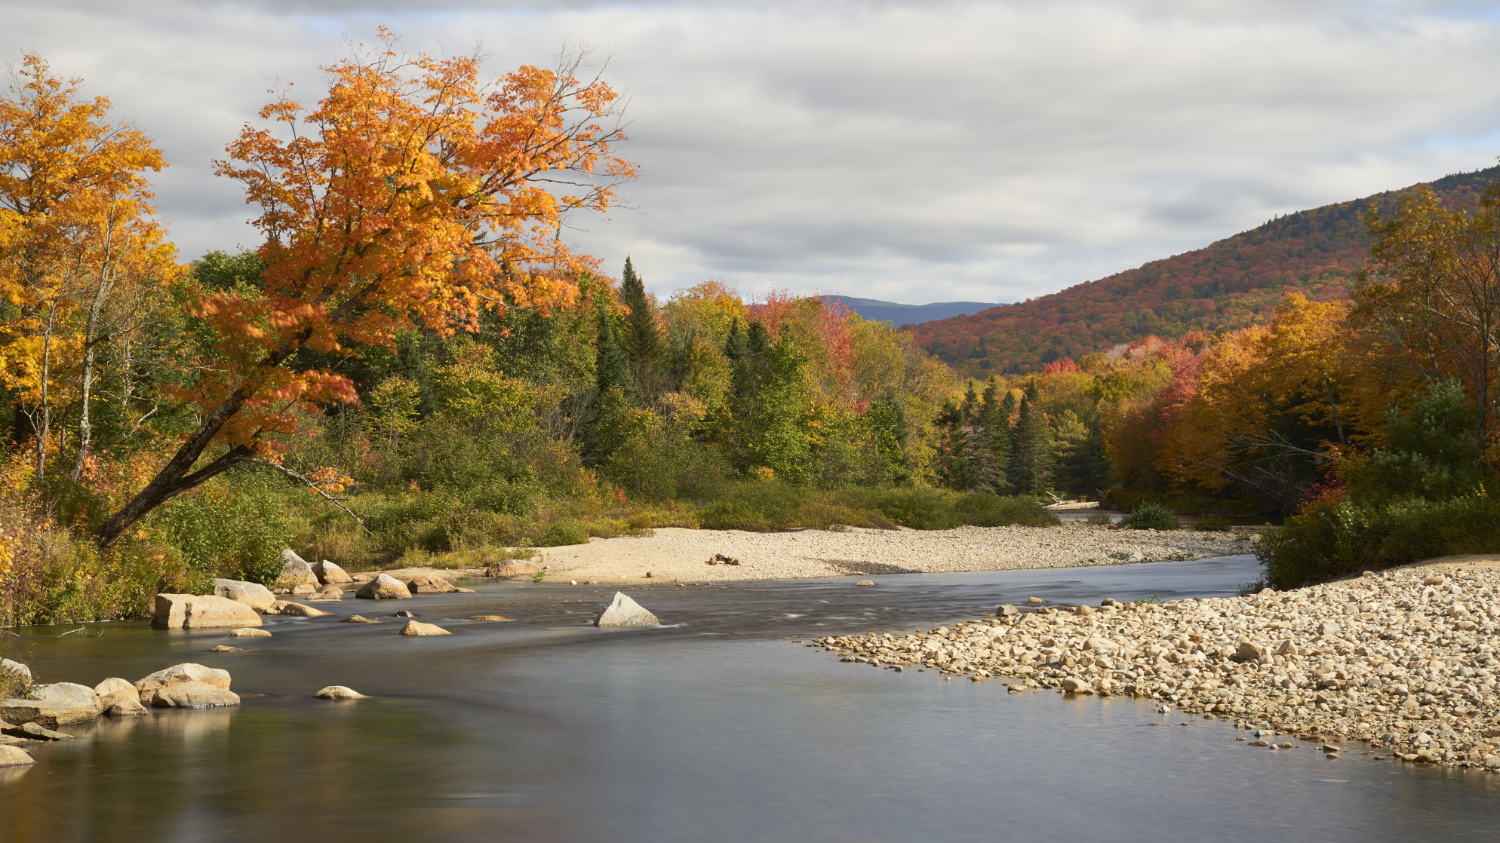
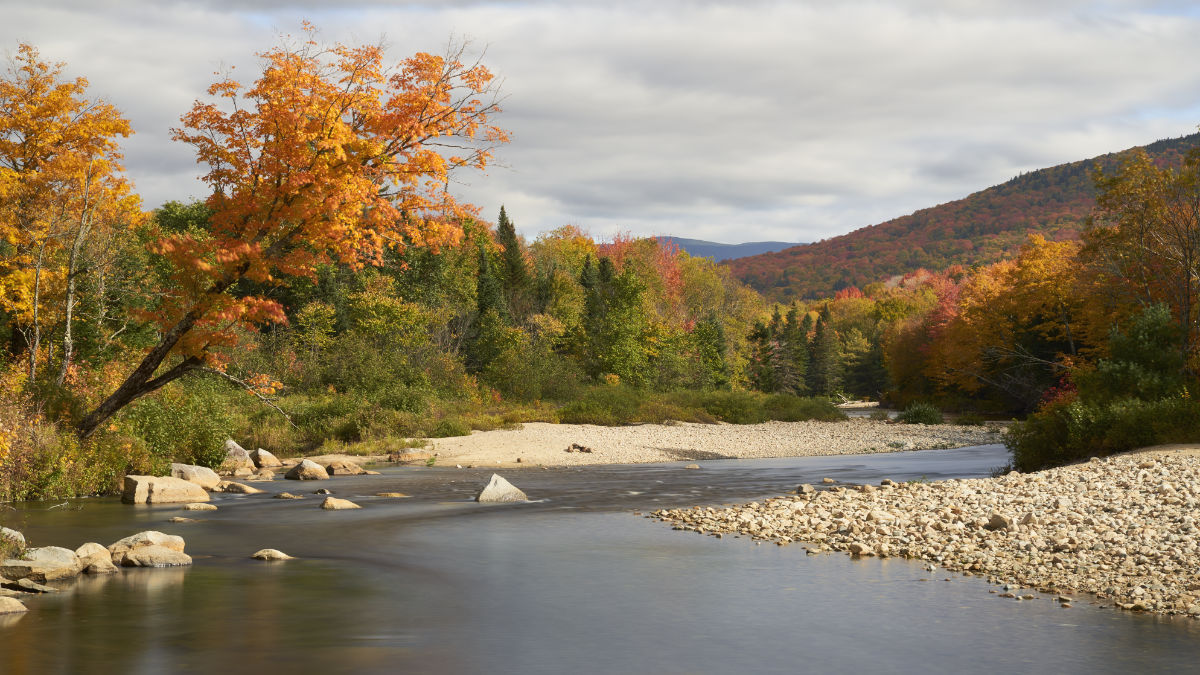
Resized images

diff --git a/galleries/2021-autumn/index.html b/galleries/2021-autumn/index.html
@@ -1,39 +1,43 @@
 <!DOCTYPE html>
 <html lang="en">
-    <head>
-        <title>Matt Dlubac Photography</title>
-        <link rel="stylesheet" href="../../styles.css">
-        <script src='../../intense.min.js'></script>
-    </head>
-    <body>
-        <header>
-            <h1><a href="/">Matt Dlubac</a></h1>
-            <a href="mailto:matt@dlubac.com"><img src="../../icons/mail.svg" alt="Mail icon" class="icon" height="25px" width="25px"></a>
-            <a href="https://instagram.com/dlubac"><img src="../../icons/instagram.svg" alt="instagram icon" class="icon" height="25px" width="25px"></a>
-        </header>
 
-        <h2><a href="/"><img src="../../icons/arrow-left.svg" height="25px" width="25px"></a>Autumn 2021</h2>
-        <div class="gallery-flex-container">
-            <img class="intense" src="2021_autumn_01.jpg" data-image="2021_autumn_01_large.jpg" alt="" />
-            <img class="intense" src="2021_autumn_02.jpg" data-image="2021_autumn_02_large.jpg" alt="" />
-            <img class="intense" src="2021_autumn_03.jpg" alt="" loading="lazy" />
-            <img class="intense" src="2021_autumn_04.jpg" alt="" loading="lazy" />
-            <img class="intense" src="2021_autumn_05.jpg" alt="" loading="lazy" />
-            <img class="intense" src="2021_autumn_06.jpg" alt="" loading="lazy" />
-            <img class="intense" src="2021_autumn_07.jpg" alt="" loading="lazy" />
-            <img class="intense" src="2021_autumn_08.jpg" alt="" loading="lazy" />
-            <img class="intense" src="2021_autumn_09.jpg" alt="" loading="lazy" />
-            <img class="intense" src="2021_autumn_10.jpg" alt="" loading="lazy" />
-            <img class="intense" src="2021_autumn_11.jpg" alt="" loading="lazy" />
-            <img class="intense" src="2021_autumn_12.jpg" alt="" loading="lazy" />
-        </div>
-        <script>
-            window.onload = function() {
-                var elements = document.querySelectorAll( 'img' );
-                console.log(elements);
-                Intense( elements );
-            }
-         </script>
-    </body>
+<head>
+    <title>Matt Dlubac Photography</title>
+    <link rel="stylesheet" href="../../styles.css">
+    <script src='../../intense.min.js'></script>
+</head>
+
+<body>
+    <header>
+        <h1><a href="/">Matt Dlubac</a></h1>
+        <a href="mailto:matt@dlubac.com"><img src="../../icons/mail.svg" alt="Mail icon" class="icon" height="25px"
+                width="25px"></a>
+        <a href="https://instagram.com/dlubac"><img src="../../icons/instagram.svg" alt="instagram icon" class="icon"
+                height="25px" width="25px"></a>
+    </header>
+
+    <h2><a href="/"><img src="../../icons/arrow-left.svg" height="25px" width="25px"></a>Autumn 2021</h2>
+    <div class="gallery-flex-container">
+        <img class="intense " src="2021_autumn_01.jpg" data-image="2021_autumn_01_large.jpg" alt="Autumn foliage on a mountain cliff." />
+        <img class="intense " src="2021_autumn_02.jpg" data-image="2021_autumn_02_large.jpg" alt="Autumn foliage reflected on a calm pond." />
+        <img class="intense " src="2021_autumn_03.jpg" data-image="2021_autumn_03_large.jpg" loading="lazy" alt="Autumn foliage and conifer trees." />
+        <img class="intense " src="2021_autumn_04.jpg" data-image="2021_autumn_04_large.jpg" loading="lazy" alt="Autumn foliage in a marsh." />
+        <img class="intense " src="2021_autumn_05.jpg" data-image="2021_autumn_05_large.jpg" loading="lazy" alt="Conifer tree amongst autumn foliage." />
+        <img class="intense " src="2021_autumn_06.jpg" data-image="2021_autumn_06_large.jpg" loading="lazy" alt="Mount Washington surrounded in clouds." />
+        <img class="intense " src="2021_autumn_07.jpg" data-image="2021_autumn_07_large.jpg" loading="lazy" alt="Mountaintop surrounded in clouds." />
+        <img class="intense " src="2021_autumn_08.jpg" data-image="2021_autumn_08_large.jpg" loading="lazy" alt="Mountaintop surrounded in clouds." />
+        <img class="intense " src="2021_autumn_09.jpg" data-image="2021_autumn_09_large.jpg" loading="lazy" alt="Presidential Range at sunrise in autumn." />
+        <img class="intense " src="2021_autumn_10.jpg" data-image="2021_autumn_10_large.jpg" loading="lazy" alt="Tree hanging over the Ammonoosuc river in autumn." />
+        <img class="intense " src="2021_autumn_11.jpg" data-image="2021_autumn_11_large.jpg" loading="lazy" alt="Narrow trail through an overgrown ravine." />
+        <img class="intense " src="2021_autumn_12.jpg" data-image="2021_autumn_12_large.jpg" loading="lazy" alt="Moss covered rock face with trees in the background." />
+    </div>
+    <script>
+        window.onload = function () {
+            var elements = document.querySelectorAll('img');
+            console.log(elements);
+            Intense(elements);
+        }
+    </script>
+</body>
 
 </html>

diff --git a/styles.css b/styles.css
@@ -11,6 +11,10 @@
     color: #252525;
 }
 
+body {
+    min-width: 720px;
+}
+
 header {
     position: -webkit-sticky;
     position: sticky;
